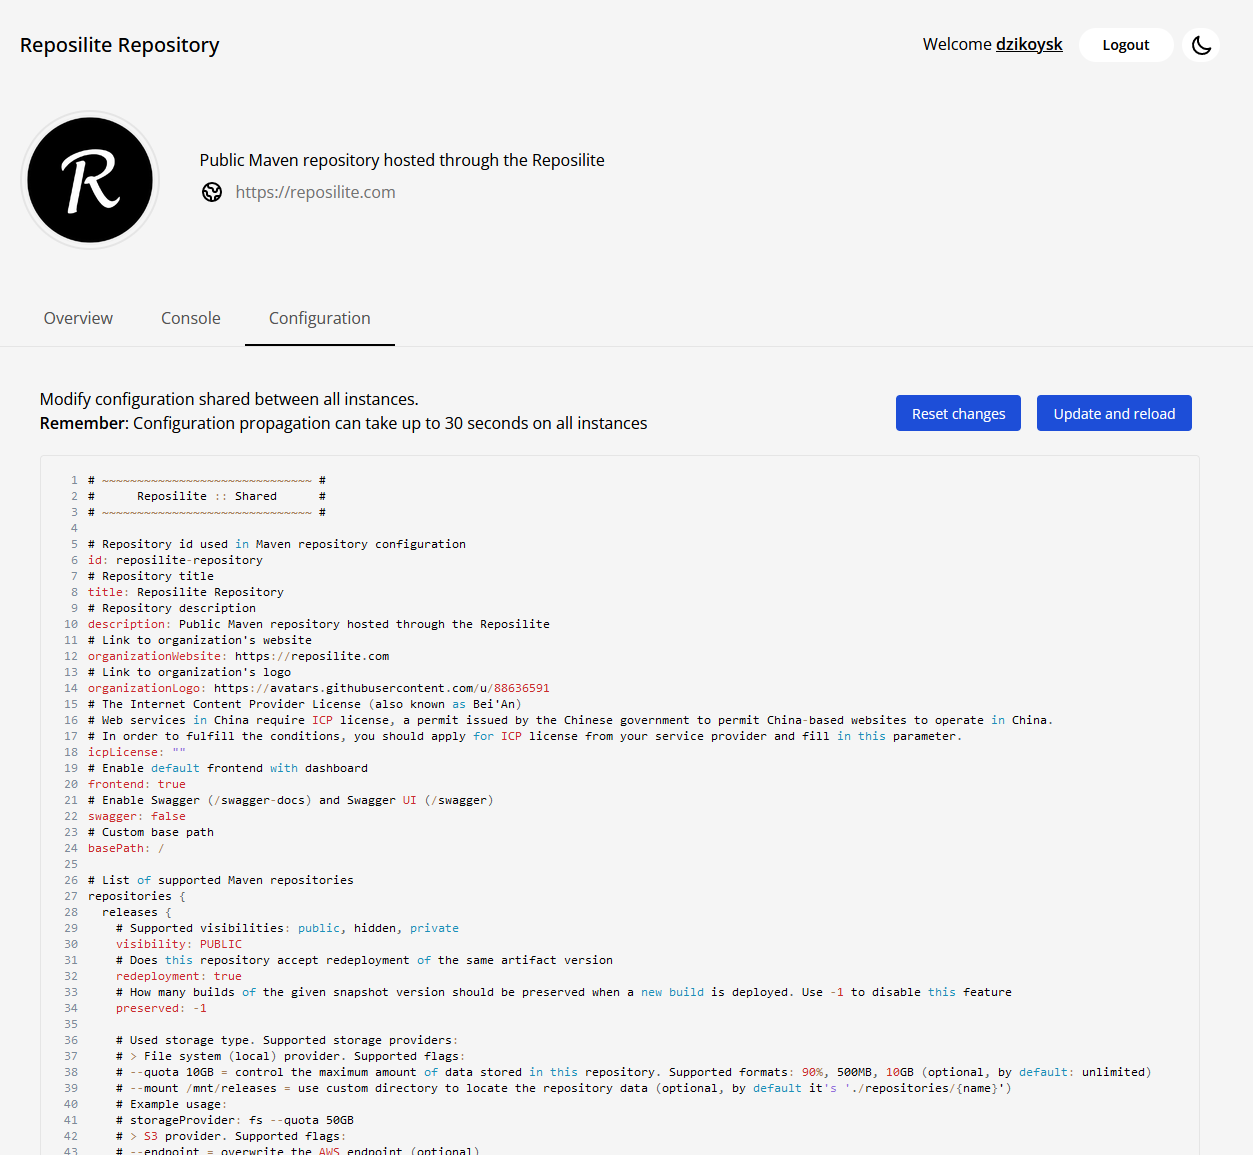
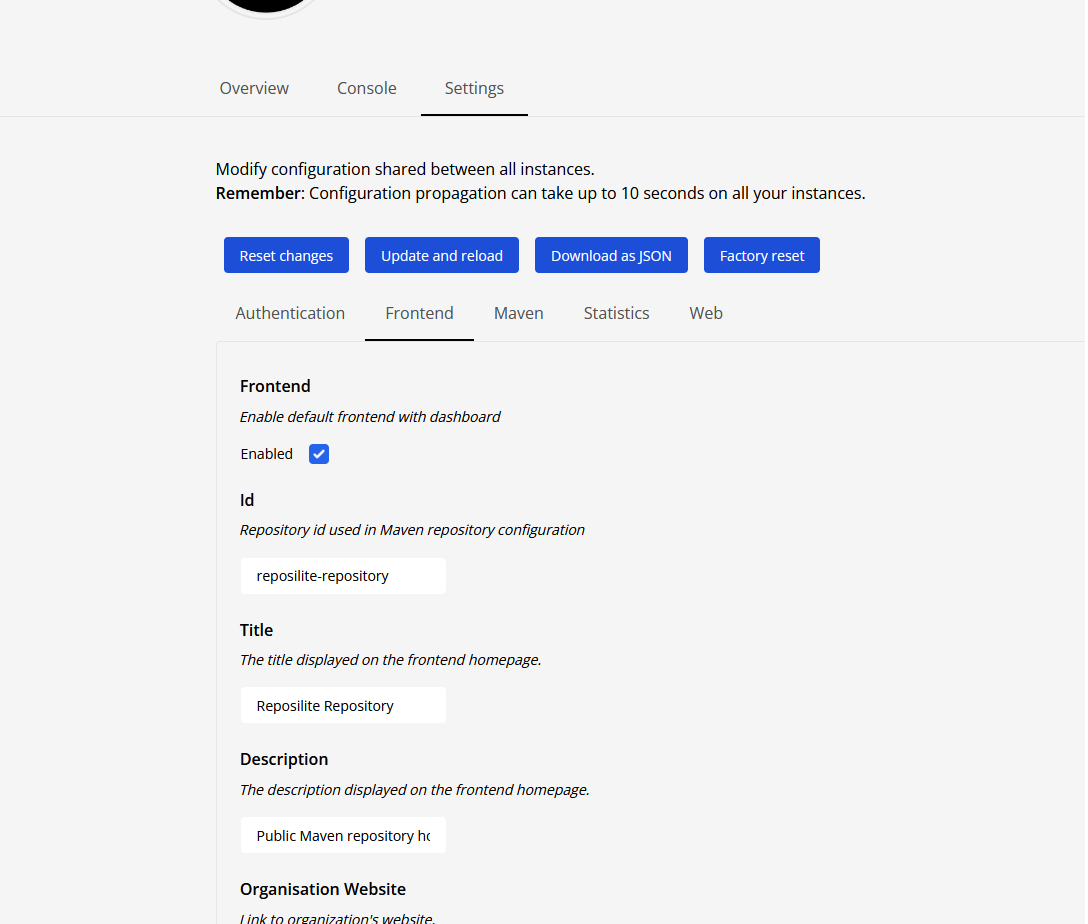
GH-1376 Update setup guide (Fix #1376)

diff --git a/reposilite-site/data/guides/installation/setup.md b/reposilite-site/data/guides/installation/setup.md
@@ -7,8 +7,8 @@ Reposilite supports multiple use cases and scenarios,
 that's why there is several ways to configure it divided into 3 configuration layers:
 
 * [Parameters](#parameters) - Startup configuration
-* [Local configuration](#local-configuration) - Immutable static instance configuration
-* [Shared configuration](#shared-configuration) - Mutable configuration shared between instances
+* [Configuration - Local configuration](#local-configuration) - Immutable file-based configuration of the given Reposilite instance
+* [Settings - Shared configuration](#shared-configuration) - Stores mutable state of Reposilite in database, it's shared between all Reposilite instances and supports hot-reloading of properties
 
 You don't have to create configuration files manually,
 Reposilite will generate it during the first startup,
@@ -29,10 +29,10 @@ List of available parameters:
 | `--help` | - | Displays help message with all parameters |
 | `--version` | - | Display current version of Reposilite |
 | `--working-directory` <br/> `-wd` | `./` | Sets custom working directory for this instance, so the location where Reposilite keeps local data |
-| `--local-configuration`<br/>`--local-config`<br/>`-lc` | `configuration.cdn` | Sets custom location of local configuration file. By default it's relative to working directory path, but you can also use absolute path. |
-| `--local-configuration-mode`<br/>`--local-config-mode`<br/>`-lcm` | `copy` | Configuration modes description: [Configuration modes](#configuration-modes) |
-| `--shared-configuration`<br/>`--shared-config`<br/>`-sc` | `configuration.shared.cdn` | Sets custom location of shared configuration file |
-| `--shared-configuration-mode`<br/>`--shared-config-mode`<br/>`-scm` | `none` | If `none`, Reposilite stores shared configuration in database. Full configuration modes description: [Configuration modes](#configuration-modes) |
+| `--generate-configuration` <br/> `-gc` | - | Generate default template of the requested file. Supported templates: `configuration.cdn` for local configuration and `configuration.shared.json` for shared configuration |
+| `--local-configuration`<br/>`--local-config`<br/>`-lc` | `configuration.cdn` | Sets custom location of local configuration file in CDN format. By default it's relative to working directory path, but you can also use absolute path. |
+| `--local-configuration-mode`<br/>`--local-config-mode`<br/>`-lcm` | `auto` | Configuration modes description: [Configuration modes](#configuration-modes) |
+| `--shared-configuration`<br/>`--shared-config`<br/>`-sc` | `configuration.shared.cdn` | Replaces database oriented storage of shared configuration with manually linked JSON file with all defined properties |
 | `--hostname`<br/>`-h`| Value from [local configuration](#local-configuration) | Overrides hostname from local configuration |
 | `--port`<br/>`-p` | Value from [local configuration](#local-configuration) | Overrides port from local configuration |
 | `--token`<br/>`-t` | Empty | Create temporary token with the given credentials in `name:secret` format |
@@ -51,10 +51,8 @@ configuration modes where introduced. Supported configuration modes:
 
 | Mode | Description |
 | :--: | :--: |
-| `auto` | Process and updates configuration file automatically |
-| `copy` | Load mounted configuration and save processed output in working directory (default) |
-| `print` | Load mounted configuration and print processed output in the console |
-| `none` | Disable automatic updates of configuration file |
+| `auto` | Processes and updates configuration file automatically if there are missing entries |
+| `none` | Disables automatic updates of configuration file, user has update such files manually in case of new properties introduced in further updates |
 
 ## Local configuration
 
@@ -79,7 +77,7 @@ Example local configuration file in CDN format from [test workspace](https://git
 # 127.0.0.1 will only allow connections from localhost.
 hostname: 0.0.0.0
 # Port to bind
-port: 80
+port: 8080
 # Database configuration. Supported storage providers:
 # - mysql localhost:3306 database user password
 # - sqlite reposilite.db
@@ -94,8 +92,8 @@ sslEnabled: false
 # SSL port to bind
 sslPort: 443
 # Key store file to use.
-# You can specify absolute path to the given file or use $\{WORKING_DIRECTORY} variable.
-keyStorePath: $\{WORKING_DIRECTORY}/keystore.jks
+# You can specify absolute path to the given file or use ${WORKING_DIRECTORY} variable.
+keyStorePath: ${WORKING_DIRECTORY}/keystore.jks
 # Key store password to use
 keyStorePassword: reposilite
 # Redirect http traffic to https
@@ -120,6 +118,10 @@ compressionStrategy: none
 cacheContent: true
 # Amount of messages stored in cached logger.
 cachedLogSize: 100
+# Set custom base path for Reposilite instance.
+# It's not recommended to mount Reposilite under custom base path
+# and you should always prioritize subdomain over this option.
+basePath: /
 # Debug mode
 debugEnabled: false
 ```
@@ -128,8 +130,7 @@ debugEnabled: false
 
 ## Shared configuration
 
-Shared configuration describes content of your Reposilite, 
-such as repositories or frontend customization. 
+Settings (shared configuration) describes content of all your Reposilite instances, such as repositories or frontend customization. 
 This configuration supports hot-reloading of properties and should be shared between all your Reposilite instances
 to make sure that every instance behaves and offers the same content.
 
@@ -138,94 +139,94 @@ Reposilite uses database to store shared configuration and synchronizes its stat
 Configuration synchronization is based on top of an interval, 
 due to the lack of 3rd party service that could broadcast data between instances.
 
-Shared configuration can be modified by access token with management permission through web interface in _Configuration_ tab:
-
-<Spoiler title="Preview of shared configuration in the dashboard">
+Shared configuration can be modified by access token with management permission through web interface in _Settings_ tab:
 
 ![Dashboard / Configuration](/images/guides/web-interface-configuration.png)
-
-</Spoiler>
 
 #### Shared configuration as file
 
 Most users should use default configuration with shared configuration in database that offers support for hot-reloading and automatic updates, 
-but for some of them it's not really what they want/can use. 
+but for some of them it's not really what they want/can use. Some use cases where database based shared configuration may not be the best solution:
+
+* Boot temporary Reposilite instance without preserved database file
+* Specific environments with external configuration supervisors that don't want to share state between shared database
+
 That's why Reposilite allows you to export shared configuration into JSON file and link it manually using `--shared-configuration` parameter. 
+You can generate default template with `--generate-configuration=configuration.shared.json` parameter or just configure your instance through web dashboard and download configuration as JSON file.
 Example output:
 
 <Spoiler title="configuration.shared.json">
 
 ```json
-"web": {
-  "swagger": "false",
-  "forwardedIp": "X-Forwarded-For"
-},
-"repositories": {
+{
+  "web": {
+    "swagger": "false",
+    "forwardedIp": "X-Forwarded-For"
+  },
   "repositories": {
-    "releases": {
-      "visibility": "PUBLIC",
-      "redeployment": "false",
-      "preserved": "-1",
-      "storageProvider": {
-        "type": "fs",
-        "quota": "100%",
-        "mount": ""
+    "repositories": {
+      "releases": {
+        "visibility": "PUBLIC",
+        "redeployment": "false",
+        "preserved": "-1",
+        "storageProvider": {
+          "type": "fs",
+          "quota": "100%",
+          "mount": ""
+        },
+        "proxied": "[]"
       },
-      "proxied": "[]"
-    },
-    "snapshots": {
-      "visibility": "PUBLIC",
-      "redeployment": "false",
-      "preserved": "-1",
-      "storageProvider": {
-        "type": "fs",
-        "quota": "100%",
-        "mount": ""
+      "snapshots": {
+        "visibility": "PUBLIC",
+        "redeployment": "false",
+        "preserved": "-1",
+        "storageProvider": {
+          "type": "fs",
+          "quota": "100%",
+          "mount": ""
+        },
+        "proxied": "[]"
       },
-      "proxied": "[]"
-    },
-    "private": {
-      "visibility": "PRIVATE",
-      "redeployment": "false",
-      "preserved": "-1",
-      "storageProvider": {
-        "type": "fs",
-        "quota": "100%",
-        "mount": ""
-      },
-      "proxied": "[]"
+      "private": {
+        "visibility": "PRIVATE",
+        "redeployment": "false",
+        "preserved": "-1",
+        "storageProvider": {
+          "type": "fs",
+          "quota": "100%",
+          "mount": ""
+        },
+        "proxied": "[]"
+      }
     }
-  }
-},
-"frontend": {
-  "frontend": "true",
-  "basePath": "/",
-  "id": "reposilite-repository",
-  "title": "Reposilite Repository",
-  "description": "Public Maven repository hosted through the Reposilite",
-  "organizationWebsite": "https://reposilite.com",
-  "organizationLogo": "https://avatars.githubusercontent.com/u/88636591",
-  "icpLicense": ""
-},
-"statistics": {
-  "resolvedRequestsInterval": "MONTHLY"
-},
-"authentication": {
-  "ldap": {
-    "enabled": "false",
-    "hostname": "ldap.domain.com",
-    "port": "389",
-    "baseDn": "dc=company,dc=com",
-    "searchUserDn": "cn=reposilite,ou=admins,dc=domain,dc=com",
-    "searchUserPassword": "reposilite-admin-secret",
-    "userAttribute": "cn",
-    "userFilter": "(&(objectClass=person)(ou=Maven Users))",
-    "userType": "PERSISTENT"
+  },
+  "frontend": {
+    "frontend": "true",
+    "basePath": "/",
+    "id": "reposilite-repository",
+    "title": "Reposilite Repository",
+    "description": "Public Maven repository hosted through the Reposilite",
+    "organizationWebsite": "https://reposilite.com",
+    "organizationLogo": "https://avatars.githubusercontent.com/u/88636591",
+    "icpLicense": ""
+  },
+  "statistics": {
+    "resolvedRequestsInterval": "MONTHLY"
+  },
+  "authentication": {
+    "ldap": {
+      "enabled": "false",
+      "hostname": "ldap.domain.com",
+      "port": "389",
+      "baseDn": "dc=company,dc=com",
+      "searchUserDn": "cn=reposilite,ou=admins,dc=domain,dc=com",
+      "searchUserPassword": "reposilite-admin-secret",
+      "userAttribute": "cn",
+      "userFilter": "(&(objectClass=person)(ou=Maven Users))",
+      "userType": "PERSISTENT"
+    }
   }
 }
 ```
 
 </Spoiler>
-
-To make it work, you also have to change [configuration mode for shared configuration](#configuration-modes) using `--shared-configuration-mode` parameter.
-By default it's `none`, so you have to change it to any other value, e.g. `copy`.

diff --git a/.github/CONTRIBUTING.md b/.github/CONTRIBUTING.md
@@ -36,6 +36,6 @@ Reposilite has 3 modules that use different tech stack.
 Visit README.md of each module to see details about how to run specific module and work with it:
 
 * [Reposilite :: Backend](https://github.com/dzikoysk/reposilite/tree/main/reposilite-backend) - Sources of main Reposilite application
-  *  [Reposilite :: Plugins](https://github.com/dzikoysk/reposilite/tree/main/reposilite-plugins) - Plugin system related subprojects
+  * [Reposilite :: Plugins](https://github.com/dzikoysk/reposilite/tree/main/reposilite-plugins) - Plugin system related subprojects
 * [Reposilite :: Frontend](https://github.com/dzikoysk/reposilite/tree/main/reposilite-frontend) - Sources of default Reposilite frontend in Vue
 * [Reposilite :: Site](https://github.com/dzikoysk/reposilite/tree/main/reposilite-site) - Sources of [reposilite.com](https://reposilite.com/) website
